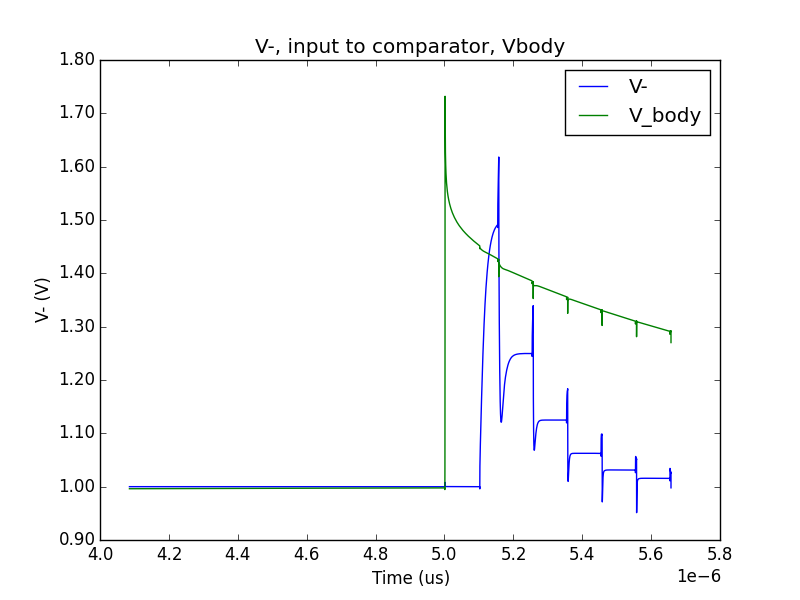
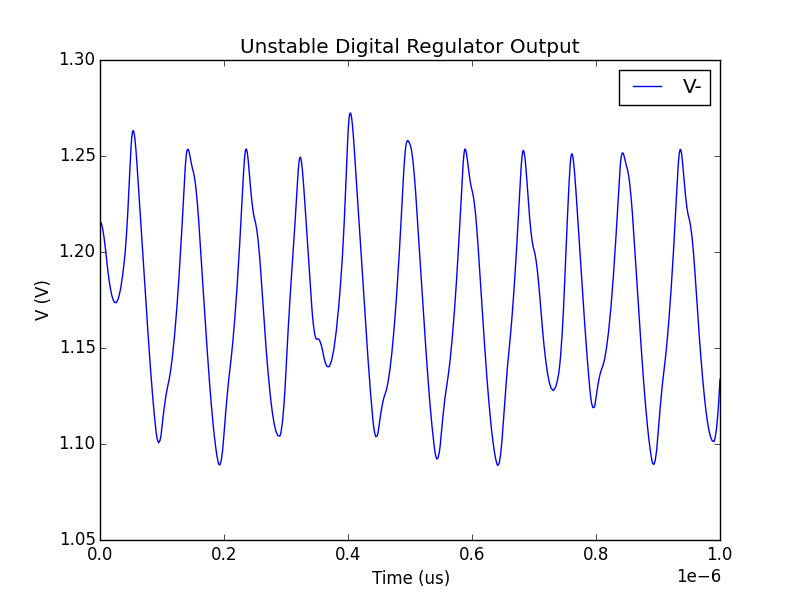
making plot for cadence

diff --git a/ADC_data/Version4/plot.py b/ADC_data/Version4/plot.py
@@ -2,34 +2,22 @@ import numpy as np
 import matplotlib.pyplot as plt
 from matplotlib.ticker import FormatStrFormatter
 
-t, vip, _, _, t1, il, _, vbody  = np.loadtxt("digital_reg_unstable.csv", delimiter=',', skiprows=1,unpack=True)
+t, vip = np.loadtxt("digital_reg_unstable.csv", delimiter=',', skiprows=1,unpack=True)
 
 print(len(t))
 
 plt.figure(1)
-plt.plot(t[3000:6500],vip[3000:6500], label = "V-")
-plt.plot(t[3000:6500],vbody[3000:6500], label = "V_body")
+plt.plot(t,vip, label = "V-")
 
 ax = plt.gca()
 ax.yaxis.set_major_formatter(FormatStrFormatter('%.2f'))
 ax.ticklabel_format(axis='x',style='sci',scilimits=(-2,2))
 
 plt.xlabel("Time (us)")
-plt.ylabel("V- (V)")
+plt.ylabel("V (V)")
 
-plt.title("V-, input to comparator, Vbody")
+plt.title("Unstable Digital Regulator Output")
 
 plt.legend()
-
-plt.figure(2)
-plt.plot(t[3000:6500],il[3000:6500])
-
-ax = plt.gca()
-ax.ticklabel_format(axis='y',style='sci',scilimits=(-2,2))
-ax.ticklabel_format(axis='x',style='sci',scilimits=(-2,2))
-
-plt.title("Current into PMOS source")
-plt.xlabel("Time (us)")
-plt.ylabel("I_leak (A)")
 
 plt.show()
